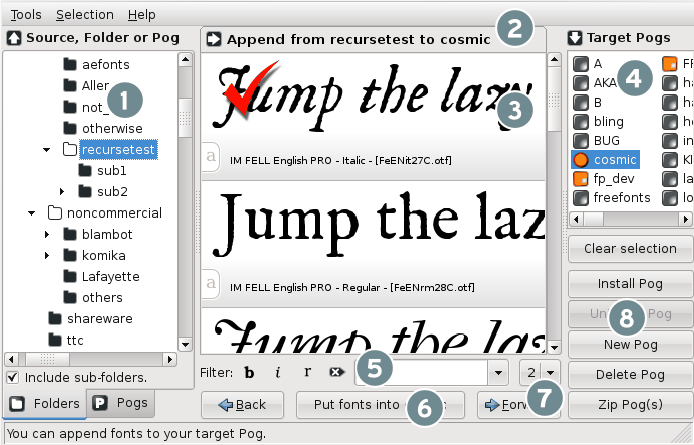
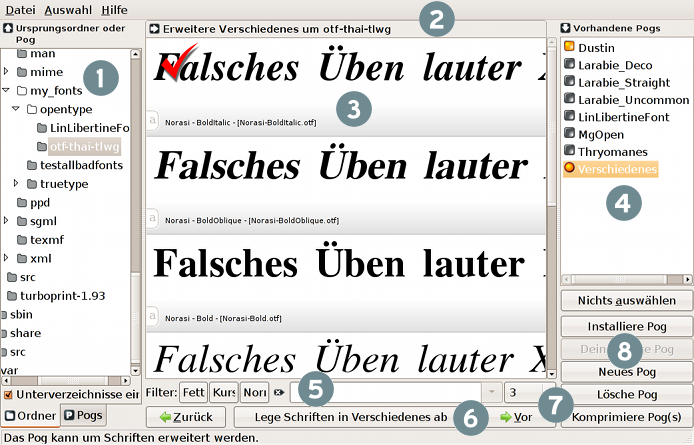
German translation finished!

diff --git a/branches/krautfont/fontypythonmodules/help/de/help.html b/branches/krautfont/fontypythonmodules/help/de/help.html
@@ -22,80 +22,80 @@
 		<a href="#LAYOUT">Das Layout</a> | <a href="#MENUS">Die Menüs</a> | <a href="#SHORTCUTS">Schnellzugriff</a> | <a href="#TIPS">Tipps</a> | <a href="#L10N">Regionale Anpassung</a> | <a href="#BUGS">Fehler</a> | <a href="#LIC">Lizenz</a>
 		</p>
 
-		<h3><font color="#758B94">&Uuml;ber den Grundgedanken</font></h3>
+		<h3><font color="#758B94">Über den Grundgedanken</font></h3>
 		<p>Sie wählen Schriften aus und stellen Sie in <b>"Pogs"</b> zusammen. Sie installieren ein Pog und alle darin versammelten Schriftarten sind für andere Programme verfügbar. Werden sie nicht mehr gebraucht, deinstallieren Sie das Pog wieder.</p>
 		<p>In das Wort "Pog" bin ich selbst hineingestolpert, es leitet sich von der Mitte des Wortes "Typografie" ab. Es bedeutet soviel wie "Sammlung" oder "Gruppe" oder "Bündel" oder "Schachtel" oder "Kasten" oder "Stapel" oder "Haufen" &mdash; Sie wissen was ich meine.</p>
-		<p>Die Schriftdateien werden im Verzeichnisbaum weder verschoben, noch werden Kopien gemacht; bei der Installation werden <i> nur symbolische Verknüpfungen (Links) mit den Originalen </i> im Heimatverzeichnis unter <i>.fonts</i> angelegt.</p>
+		<p>Die Schriftdateien werden im Verzeichnisbaum weder verschoben, noch werden Kopien gemacht; bei der Installation werden <i> nur symbolische Verknüpfungen (Links) mit den Originalen </i> im Heimatverzeichnis unter "<i>.fonts</i>" angelegt.</p>
 		<p>Sie haben z.B. ein Pog "Zoo Logo", in dem Sie alle Schriften abgelegt haben, um ein Logo für einen Zoo zu entwerfen. Anschließend reicht die Installation des Pogs "Zoo Logo". Alle Schriften erscheinen nun in Inkscape, Gimp und anderen Anwendungen. Gehen Sie ganz normal an Ihre Arbeit und machen sich keine Gedanken mehr über die Schriften. Ist die Arbeit getan, deinstallieren Sie "Zoo Logo" und alle Schriften sind wieder aus den Schrift-Auswahldialogen verschwunden. (D.h. die Verknüpfungen/Links mit den originalen Schriftdateien sind aus dem .fonts-Ordner im Heimatverzeichnis entfernt worden, was einer Deinstallation gleichkommt.)</p>
 		<p>Fonty eignet sich auch hervorragend zum Betrachten von Schriften, egal wo sie gespeichert sind und ohne systemweite Installation. Es hat eine Kommandozeilen-Schnittstelle, von der aus Pogs installiert/deinstalliert werden können, ohne die grafische Oberfläche starten zu müssen. Eine nette Besonderheit!</p>
 		<h3><font color="#758B94">Verborgene Schriften im Heimatverzeichnis</font></h3>
-		<p>Im Heimatverzeichnis befindet sich ein verborgener Ordner '.fonts'. Der Punkt kennzeichnet ihn als versteckt. Darin finden sich (eventuell) die unterschiedlichsten Arten von Schriftdateien, die alle vom System genutzt werden können. Allerdings ist es nicht ganz so einfach, weil unter GNU/Linux Schriften auch an anderen Stellen installiert werden können. Aber es ist ein praktischer Ort. Normalerweise braucht man nicht in diesen Ordner zu wechseln, warum sich also weiter Gedanken darum machen.</p>
+		<p>Im Heimatverzeichnis befindet sich ein verborgener Ordner ".fonts". Der Punkt kennzeichnet ihn als versteckt. Darin finden sich (eventuell) die unterschiedlichsten Arten von Schriftdateien, die alle genutzt werden können. Ganz so einfach ist es leider nicht, weil unter GNU/Linux Schriften auch an anderen Stellen systemweit installiert werden. Aber dieser Ordner ist bestens geeignet, eigene Schriften zu installieren. Und da man normalerweise nicht direkt in diesen Ordner wechselt, müssen Sie sich weiter keine Gedanken darum machen.</p>
 		<h3><font color="#758B94">Letzte Neuerungen</font></h3>
 		<ol>	
-			<li>(Sept 2009) Pogs können archiviert werden. Alle Schriften darin werden in einer komprimierten Datei zusammengefasst z.B. um sie weiter zu verteilen.</li>
-			<li>(Juni 2009) Es gibt die Möglichkeit Unterverzeichnisse einzuschließen. Siehe auch die Kommandozeilenoption "-A"</li>
-			<li>(June 2009) Neue Tastenkürzel. Strg+PfeilLinks and Strg+PfeilRechts blättert durch die Seiten.</li>
-			<li>(June 2009) Mehrfachauswahl von Pogs. In einem Schritt können viele Pogs entfernt, installiert oder deinstalliert werden.</li>
+			<li>(September 2009) Pogs können archiviert werden. Alle Schriften darin werden in einer komprimierten Datei zusammengefasst z.B. um sie weiter zu verteilen.</li>
+			<li>(Juni 2009) Es gibt die Möglichkeit Unterverzeichnisse einzuschließen. Siehe auch die Kommandozeilenoption "-A".</li>
+			<li>(Juni 2009) Neue Tastenkürzel. Strg+PfeilLinks and Strg+PfeilRechts blättert durch die Seiten.</li>
+			<li>(Juni 2009) Mehrfachauswahl von Pogs. In einem Schritt können viele Pogs entfernt, installiert oder deinstalliert werden.</li>
 		</ol>
 		
 		<CENTER><IMG src="../common/break.png" border="0"></CENTER>
 
 		<A NAME="LAYOUT"></A>
-		<h3><font color="#758B94">Layout</font></h3>
+		<h3><font color="#758B94">Das Layout</font></h3>
 		<CENTER><IMG src="fp_1to8-nq8.png" border="0">
-		<p><font size=1>Die Benutzeroberfläche ist von links nach rechts aufgebaut. Zunächst wählen Sie ganz links einen Ursprung aus, dann die einzelnen Schriften im mittleren Bereich. Schließlich legen Sie ein 'Pog' als Ziel fest, unter dem die Schriften gespeichert werden.</font></p></CENTER>
+		<p><font size=1>Die Benutzeroberfläche ist von links nach rechts aufgebaut. Zunächst wählen Sie ganz links einen Ursprung aus, dann die einzelnen Schriften im mittleren Bereich. Schließlich legen Sie ein "Pog" als Ziel fest, unter dem die Schriften gespeichert werden.</font></p></CENTER>
 
 
 	<table cellspacing="10">
 	<tr><td valign="top">
 		<IMG src="../common/fp1.png.cr.png" align="left" border="0">
 		</td><td>
-		<h4>Source of fonts.</h4>
-		<p>You can choose a folder <i>or</i> another Pog as the <i>Source</i>, simply choose the appropriate tab.<br>It's quite nice to get fonts out of another Pog sometimes (it's quicker than trying to find them on a drive somewhere), so Pogs can be Sources too &mdash; don't let this confuse you!<br>Keep your eyes on the label at 2 to see what the current selected Source is.</p>
-		<p><strong>Sub-Folders</strong>: Above the Folders is a checkbox to include fonts in sub-folders under your chosen folder. You can deal with many fonts at once in this way &mdash; but beware the trade-off of speed and stability.</p>
+		<h4>Woher kommen die Schriften?</h4>
+		<p>Sie können einen Ordner <i>oder</i> ein anderes Pog als <i>Ursprung</i> verwenden, wählen Sie einfach den entsprechenden Reiter.<br>Manchmal ist es sinnvoll, wenn man Schriften aus einem anderen Pog wählt (es ist viel schneller als ein ganzes Laufwerk zu durchsuchen). Also auch Pogs können Ursprung sein &mdash; lassen Sie sich davon nicht verwirren!<br>Behalten Sie immer die Zeile bei 2 (Statusanzeige) im Auge.</p>
+		<p><strong>Unterverzeichnisse</strong>: Unterhalb der Ordneransicht befindet sich ein Kontrollkästchen "Unterverzeichnisse einschliessen", d.h. alle Schriften in Unterverzeichnissen des gewählten Ordners werden in der Vorschau mit angezeigt. Auf diese Weise können Sie mit sehr vielen Schriften gleichzeitig arbeiten &mdash; Geschwindigkeit und Stabilität leiden aber möglicherweise darunter.</p>
 	</td></tr>
 	<tr><TD valign="top">
 			<IMG src="../common/fp2.png.cr.png" align="left" border="0"></TD><td>
-			<h4>Information area.</h4>
-			<p>This section informs you about what is selected in the Source and Target portions of the interface. Along with the status bar, it keeps you informed about what you can and cannot do at any time.</p>
+			<h4>Statusanzeige</h4>
+			<p>Diese Zeile informiert Sie über die aktuelle Auswahl von Ursprung und Ziel. Zusammen mit der Hilfezeile am unteren Fensterrand gibt sie Auskunft darüber, welche Aktionen möglich oder nicht möglich sind.</p>
 	</td></tr>
 	<tr>
 	<TD valign="top">
 		<IMG src="../common/fp3.png.cr.png" align="left" border="0"></TD><td>
-		<h4>The font view.</h4>
-		<p>The fonts in the folder or Pog you chose on the left will show here.</p>
-		<p><strong>Please note</strong>: An error marker may appear instead of the expected font glyphs. These fonts either cannot be opened (for whatever reason) or Fonty cannot draw them. <i>You can still select</i> these 'bad' fonts, place them into Pogs and then install them. The reason for this is that Fonty Python is not all that good at drawing fonts (it's a long story) but other apps like Inkscape and The Gimp work just fine. So, if you know you need a font and Fonty says it's bad, just ignore the error message and select it like any other font.</p>
-		<p><strong>Tip</strong>: You can change the size of the fonts with <strong>Ctrl + mouse wheel (up/down)</strong>.</p>
-		<h5>This section has various behaviours, depending on what you have selected:</h5>
+		<h4>Die Vorschau</h4>
+		<p>Die Schriften im links markierten Ordner oder Pog werden hier angezeigt.</p>
+		<p><strong>Nota bene</strong>: Statt des erwarteten Textes erscheint möglicherweise eine Fehlermeldung. Diese Schriften können entweder aus irgendwelchen Gründen nicht geöffnet werden oder FontyPython kann sie nicht darstellen. <i>Trotzdem lassen sie sich diese "schlechten" Schriften auswählen, in Pogs speichern und installieren</i>. Der Grund ist, daß FontyPython (leider immer noch nicht) Schriften nicht so zuverlässig darstellen kann wie andere Anwendung, z.B. Inkscape oder The Gimp. Also, auch wenn Fonty behauptet eine Schrift sei "schlecht", ignorieren Sie die Fehlermeldung und behandeln Sie sie wie jede andere Schrift.</p>
+		<p><strong>Tipp</strong>: Die Schriftgröße kann sehr schnell mit der Kombination <strong>Strg + Mausrad (auf/ab)</strong> verändert werden.</p>
+		<h5>Dieser Bereich ermöglicht unterschiedliche Aktionen, je nachdem was ausgewählt ist:</h5>
 		<ol>
 			<li>
-			<h5>You have selected a Source (Pog or Folder) and a Target Pog</h5>
+			<h5>Es ist ein Ursprungsordner oder Pog und ein Ziel ("Vorhandene Pogs") markiert</h5>
 			<IMG src="../common/fp_ticking.png" border="0">
-			<p>This will let you tick fonts and then store them in the Target Pog.</p>
-			<h6>Areas of interest</h6>
+			<p>Schriften können angehakt und im Pog gespeichert werden.</p>
+			<h6>Die Elemente im Einzelnen</h6>
 			<ol>
-				<li><strong>Character Map Button</strong> If you have <em>gucharmap</em> or <em>kfontview</em> installed, this button will show and when clicked will open one of those two apps to let you view the full character-set of the font. You can choose which character map viewer to use in the Settings.<p></p></li>
-				<li><strong>Tick Area</strong> Clicking anywhere on a font will either <em>tick</em> or <em>cross</em> it.<p>A <em>tick</em> means the font can be placed into a <em>Target Pog</em> &mdash; i.e. the one chosen in the right-hand panel.</p><p>A <em>cross</em> means the font will be removed from the <em>Source Pog (The one you are viewing at the moment)</em> &mdash; i.e. the Pog currently chosen on the left-panel.</p><p></p></li>
-				<li><strong>Font Info</strong> Here you will find the family and style and filename. When you use the filter to search, this is the text that is used.</li>
+				<li><strong>Schalter für die Zeichentabelle</strong>: Wenn <em>gucharmap</em> oder <em>kfontview</em> auf Ihrem System installiert ist, wird dieser Schalter angezeigt. Damit können Sie eines der Programme starten, die die vollständige Zeichentabelle der Schrift anzeigen. Welches Programm benutzt werden soll, kann im Dialog Optionen eingestellt werden.<p></p></li>
+				<li><strong>Auswahlbereich</strong>: Ein Klick in diesen Bereich <em>hakt</em> oder <em>kreuzt</em> die Schrift an.<p>Ein <em>Haken</em> bedeutet die Schrift kann in das <em>markierte Pog</em> übernommen werden &mdash; also in das in der rechten Liste ausgewählte.</p><p>Ein <em>Kreuz</em> bedeutet die Schrift wird aus dem <em>gerade angezeigten Pog </em> entfernt &mdash; das Pog also, das in der linken Liste ausgewählt ist.</p><p></p></li>
+				<li><strong>Schriftinformationen</strong>: Hier werden die Familie, der Stil sowie der Dateiname eingeblendet. Diese Angaben werden beim Filtern der Vorschau ausgewertet.</li>
 			</ol>
 			<hr>
 			</li>
 			<li>
-			<h5>You have selected a Source Folder (or a Pog) <em>only</em></h5>
+			<h5>Es ist <em>nur</em> ein Ursprungsordner markiert</h5>
 			<IMG src="../common/fp_normal_item.png" border="0">
-			<p>This will not let you tick anything, you can only look. There is no visual difference.</p>
+			<p>Die Schriften können weder angehakt noch angekreuzt werden. Optisch gibt es keinen Unterschied zum vorher beschriebenen Zustand.</p>
 			<hr>
 			</li>
 			<li>
-			<h5>You have selected a Source Pog <em>only</em></h5>
+			<h5>Es ist <em>nur</em> links ein Pog markiert</h5>
 			<IMG src="../common/fp_removing_a_font.png" border="0">
-			<p>This will let you cross-out fonts that you want to remove from the Pog you are looking at now.</p>
+			<p>Sie kreuzen die Schriften an, die aus dem Pog entfernt werden sollen.</p>
 			<hr>
 			</li>
 			<li>
-			<h5>Inactive fonts</h5>
-			<IMG src="../common/fp_already_in_x.png" border="0">
-			<p>This greyed-out font indicates that it's already in the Target Pog, so you can't select it.</p>
+			<h5>Gesperrte Schriften</h5>
+			<IMG src="fp_already_in_x.png" border="0">
+			<p>Die ausgegraute Anzeige weist auf Schriften hin, die sich bereits im Ziel(-pog) befinden. So wird verhindert, dass Schriften mehrfach in einem Pog gespeichert werden.</p>
 			</li>
 	</ol>
 	</td>
@@ -103,17 +103,17 @@
 	<tr>
 	<TD valign="top">
 	<IMG src="../common/fp4.png.cr.png" align="left" border="0"></TD><td valign="top">
-	<h4>Target Pogs.</h4>
+	<h4>Status der Pogs</h4>
 	<table><tr>
 			<td>
 				<IMG src="fp_pog_icons.cr.png" align=left border="0">
 			</td>
 			<td valign="top">
-				These icons indicate which are currently installed and which are not.
+				Diese Symbole zeigen an, ob ein Pog installiert ist.
 				<ul>
-					<li>You cannot use an installed Pog as a Target.</li>
-					<li>You choose a Target Pog by clicking one (on the right).</li>
-					<li>By holding <i>Ctrl</i> you can select many Pogs at once.</li>
+					<li>Installierte Pogs können nicht verändert werden.</li>
+					<li>Welches Pog erweitert werden soll ("Ziel") bestimmen Sie rechts.</li>
+					<li>Mit <i>Strg + Klick</i> können mehrere Pogs gleichzeitig ausgewählt werden.</li>
 				</ul>
 			</td>
 		</tr>
@@ -121,147 +121,145 @@
 	</td></tr>
 	<tr><TD valign="top">
 			<IMG src="../common/fp5.png.cr.png" align="left" border="0"></TD><td>
-			<h4>The filter.</h4>
-			<p>This is the "filter". You can type partial words here and the list of fonts will change to reflect the search. For example, if you only want the italic fonts, then type <pre>italic</pre> (And press ENTER)<br>When you want all the fonts again, clear the box and press ENTER.</p>
-	<p><strong>Tip</strong>: If you want to search for bold <em>or</em> italic (i.e fonts with either term) then type in <pre>bold | italic</pre><font size=-1>That line (|) is the key near ENTER, above the backslash (\) character on a US-English keyboard. It means "OR" so: "bold OR italic" is what you are saying to the filter.</font></p>
-			<p><strong>NOTE</strong>: There's a bug I can't find &mdash; If you are not seeing any fonts, be sure to clear your filter and press <strong><em>enter</em></strong>; you may have to do it twice.</p> 
+			<h4>Der Filter</h4>
+			<p>In der Vorschau erscheinen nur noch die Schriften, auf deren Angaben (vgl. <strong>Schriftinformationen</strong>) der hier eingegebene Text zutrifft. Wollen Sie z.B. nach Serifen filtern, schreiben Sie <pre>serif</pre> (und betätigen die Eingabetaste!)<br><br>Wollen Sie wieder zur ungefilterten Ansicht zurückkehren, benutzten Sie den Schalter "Filter löschen" bzw. leeren das Eingabefeld.<br>Für die Suche nach Standardstilen benutzen Sie die Wechselschalter "Fett", "Kursiv", "Normal". Ist z.B. der Schalter "Fett" eingedrückt werden nur noch Schriften angezeigt deren vollständiger Name das Wort "bold" (die englische Bezeichnung für fette Schriften) enthält. "Fett" und "Kursiv" lassen sich kombinieren, "Normal" kann nur allein aktiviert werden. Eine fette, normale Schrift wäre ziemlich unlogisch!</p>
+	<p><strong>Tipp</strong>: Sicher ist Ihnen die Linie (|) in <pre>regular|normal</pre><br><br>aufgefallen, wenn Sie den Schalter "Normal" betätigen. Das Eingabefeld erlaubt reguläre Ausdrücke für, alle die etwas davon verstehen.<font size=-1> "|" bedeutet "ODER", es werden also nur Schriften ausgefiltert, auf die die Beschreibung "normal" ODER "regular" zutrifft.</font></p>
+			<p><strong>ANMERKUNG</strong>: Es gibt einen Fehler, den ich noch nicht beheben konnte &mdash; wenn Sie keine Schriften sehen können, stellen Sie sicher, dass das Eingabefeld "Filter" leer ist und drücken, eventuell auch zweimal, die  <strong><em>Eingabetaste</em></strong>.</p> 
 	</td></tr>
 	<tr>
 		<TD valign="top">
 		<IMG src="../common/fp6.png.cr.png" align="left" border="0"></TD><td>
-		<h4>The action button.</h4>
-		<p>This is the main <i>action</i> button. It will change its functionality as you select various combinations. The text of the button ought to give a clear indication of what it will do. Read it in conjunction with the Info area and the status bar.</p>
+		<h4>Der Hauptschalter</h4>
+		<p>Dies ist der wichtigste Schalter. Er löst je nach der aktuellen Situation verschiedene <i>Aktionen</i> aus. Die Beschriftung des Schalters sollte einen klaren Hinweis darauf geben, was geschieht. Beachten Sie auch die <strong>Statusanzeige</strong> und die <strong>Hilfezeile</strong>.</p>
 	</td></tr>
 	<tr>
 		<TD valign="top"><IMG src="../common/fp7.png.cr.png" align="left" border="0"></TD><td>
-			<h4>Navigation.</h4>
-			<p>These controls allow you to navigate between "pages" of fonts. You can also choose any page from the pull-down. Please go to Tools->Settings (or hit Ctrl+S &mdash; for English locales) where you can change the number of fonts in a page. <i>I use the paged approach to reduce the memory demands of the app.</i></p>
+			<h4>Navigation</h4>
+			<p>Hier können Sie sich durch die "Seiten" bewegen. Benutzen Sie die "Vor"/"Zurück"-Schalter oder gehen direkt zu einer Seite über die Aufklappliste. Im Einstellungsdialog (Datei->Optionen oder Strg+O &mdash; für die deutsche Version) kann die Seitenlänge, d.h. die Schriften pro Seite, festgelegt werden. <i>Dieser Ansatz soll den Speicherbedarf von FontyPython möglichst gering halten.</i></p>
 	</td></tr>
 	<tr>
 		<TD valign="top"><IMG src="../common/fp8.png.cr.png" align="left" border="0"></td><td>
-	<h4>Pog actions.</h4>
-	<p>The buttons in this section all act upon the currently selected <strong>Target</strong> Pog(s). You can variously delete, install, uninstall and zip the selected Pog(s). You can also create new Pogs from here.</p><p>The "Clear Selection" button will clear all the Pogs you have selected.</p>
+	<h4>Abteilung Pogs</h4>
+	<p>Diese Schalter verändern die <strong>Ziel</strong>-Pogs ("Vorhandene Pogs"). Alle markierten Pogs können gelöscht, installiert, deinstalliert oder komprimiert werden. Oder Sie erstellen ein neues Pog.</p><p>Mit "Nichts auswählen" entfernen Sie alle Markierungen.</p>
 	</td></tr>
 	</table>
-	<p><A href="#TOP"><font size=-1>Go to top</font></A></p>
+	<p><A href="#TOP"><font size=-1>Nach oben</font></A></p>
 
 	<CENTER><IMG src="../common/break.png" border="0"></CENTER>
 
 	<A NAME="MENUS"></A>
-	<h3><font color="#758B94">Menu items</font></h3>
+	<h3><font color="#758B94">Die Menüs</font></h3>
 	<ol>
-		<li><strong>Tools menu</strong>
+		<li><strong>Das Datei-Menü</strong>
 		<ol>
-			<li>Settings: Access the settings for the font view. Shortcuts: Ctrl+S or middle-click on the font view.</li>
-			<li>Check Fonts: Choose a folder and scan for bad fonts which are then noted to prevent crashing Fonty in the future. Use this if your head is tired of the wall/desktop.</li>
-			<li>Purge Pog: The Pog you are currently looking at may have yellow items which indicate fonts that are not there anymore. Use purge to remove them. <font size=-1>A Pog contains a list of fonts paths. If a font is moved on the disk, say it's renamed or deleted, then the path in the Pog will point to a font that is not there anymore.</font></li>
-			<li>Exit: Guess :)</li>
-		</ol>
-		<li><strong>Selection menu</strong>
+			<li>Optionen: Einstellungen für die Vorschau. Schnellzugriff: Strg+O oder Mittelklick auf die Vorschau.</li>
+			<li>Überprüfe Schriften: Bestimmen Sie einen Ordner, der auf Schriften überprüft werden soll, die FontyPython immer wieder zum Absturz bringen. Der Rettungsring für genervte Nutzer.</li>
+			<li>Bereinige Pog: Vielleicht sehen Sie in einem Pog gelb hervorgehobene Einträge. Ein Pog ist eigentlich nur eine Liste mit Dateipfaden zu den Schriften. Wurde eine Schrift umbenannt, verschoben oder gelöscht, führt der Eintrag ins Leere. Hier können Sie alle verwaisten Einträge aus einem Pog entfernen.</li>
+			<li>Beenden: Raten Sie mal :)</li>
+		</ol><br>
+		<li><strong>Das Auswahl-Menü</strong>
 		<ol>
-			<li>Select ALL the source fonts: While only a few fonts are shown in a page at a time, there may be thousands in the selected source. This will select all those fonts in one go.</li>
-			<li>Clear ENTIRE selection: Will clear any selection.</li>
+			<li>ALLE Schriften im Ordner/Pog auswählen: Auch wenn nur wenige Schriften auf einer Seite angezeigt werden, befinden sich vielleicht viel mehr in dem Ordner/Pog. Diese werden alle in einem Durchgang angehakt bzw. angekreuzt.</li>
+			<li>GESAMTE Auswahl aufheben: Alle Markierungen werden wieder entfernt.</li>
 		</ol>
 	</ol>
 
-	<p><A href="#TOP"><font size=-1>Go to top</font></A></p>
+	<p><A href="#TOP"><font size=-1>Nach oben</font></A></p>
 
 	<CENTER><IMG src="../common/break.png" border="0"></CENTER>
 	
 
 	<A NAME="SHORTCUTS"></A>
-	<h3><font color="#758B94">Shortcut keys</font></h3>
+	<h3><font color="#758B94">Schnellzugriff</font></h3>
 	<ol>
-		<li><strong>If shortcut keys don't work</strong>, click in the filter text box. This seems to kick them back to life. Don't ask me what's going on....</li>
-		<li><strong>Esc key</strong> will close your app (and help etc.) quickly.</li>
-		<li><strong>Ctrl+LeftArrow and Ctrl+RightArrow</strong> will step through fonts like the Next and Previous buttons do.</li>
-		<li><strong>Middle-click (the wheel-button)</strong> in the font view (position 3 above) will open the Settings screen (like Ctrl+S does)</li>
-		<li><strong>Ctrl + Mouse wheel up/down</strong> will increase/decrease the size of your font previews quickly.</li>
+		<li><strong>Wenn die Schnellzugriffstasten nicht funktionieren</strong>, setzen Sie den Eingabefocus in das Filtertextfeld. Fragen Sie mich nicht warum....</li>
+		<li><strong>Escape</strong> schliesst Anwendung, Dialoge oder Hilfe.</li>
+		<li><strong>Strg+PfeilLinks und Strg+PfeilRechts</strong> haben die gleiche Wirkung wie die "Vor"/"Zurück"-Schalter.</li>
+		<li><strong>Mittelklick (Mausrad)</strong> in der Vorschau (vgl. Punkt 3 Die Vorschau) öffnet den Einstellungsdialog.</li>
+		<li><strong>Strg + Mausrad</strong> vergrößert/verkleinert die Schriftgröße direkt.</li>
 	</ol>
 	
-	<p><A href="#TOP"><font size=-1>Go to top</font></A></p>
+	<p><A href="#TOP"><font size=-1>Nach oben</font></A></p>
 
 	<CENTER><IMG src="../common/break.png" border="0"></CENTER>
 
 	<A NAME="TIPS"></A>
-	<h3><font color="#758B94">Handy tips</font></h3>
+	<h3><font color="#758B94">Tipps</font></h3>
 	<ol>
-		<li>Try to use Fonty from the command-line (from a console). It's easy, simply type: <pre>fontypython --help</pre></li>
-		<li>Pog files are merely text files. They are very, very simple and this was intentional. Here are some things you can do with them:
+		<li>FontyPython hat auch eine Kommandozeilen-Schnittstelle. Probieren Sie in einem Terminal: <pre>fontypython --help</pre></li>
+		<li>Pog-Dateien sind lediglich Textdateien. Sie sind absichtlich sehr einfach gehalten. Hier ein paar Sachen, die Sie damit anstellen können:
 		<ul>
-			<li>Open and edit them in any text editor.</li>
-			<li>Append fonts to the end of them, just include the entire path and the font name.<strong>Note for Type1 fonts:</strong>Only include the PFA/B file types, not the various metric files that follow them.</li>
-			<li>If your paths change (say you renamed your folders, or re-installed your O/S) then you can use search/replace to update all the paths to all the fonts in your Pogs. You could do this from the command-line using GNU tools, but any text editor will help you here too.</li>
-			<li>You can backup your Pogs by simply copying them to another folder.</li>
-			<li>One last trick, for those proficient with the Gnu tools, you can do things like this:<pre>find /home/you/somepath/TTFS/F -iname "Fu*" >> Futura.Pog</pre></li>
+			<li>Sie lassen sich mit jedem Texteditor bearbeiten.</li>
+			<li>Pogs lassen sich erweitern, indem Sie einfach den vollständigen Pfad zur Schriftdatei in die Textdatei einfügen.<br><strong>Hinweis für Type1-Schriften</strong>: Bitte nur die PFA/PFB-Dateien eintragen, mit den Dateiendungen .pfa bzw. .pfb.</li>
+			<li>Falls sich die Pfade verändert haben (z.B. weil Sie Ihr Betriebssystem neu installiert haben), können Sie die Pfade automatisch mit GNU-Werkzeugen (find, locate, sed,...) oder von Hand anpassen.</li>
+			<li>Legen Sie Sicherungskopien Ihrer Pogs an: cp ~/.fontypython/*.pog ~/backup/ .</li>
+			<li>Ein letzter Trick für alle GNU-Gurus, auch so etwas ist möglich:<pre>find /home/name/einpfad/TTFS/F -iname "Fu*" >> Futura.pog</pre></li>
 		</ul>
 	</li>
 	</ol>
 	
-	<p><A href="#TOP"><font size=-1>Go to top</font></A></p>
+	<p><A href="#TOP"><font size=-1>Nach oben</font></A></p>
 
 	<CENTER><IMG src="../common/break.png" border="0"></CENTER>
 
 	<A NAME="L10N"></A>
-	<h3><font color="#758B94">Localization tips</font></h3>
+	<h3><font color="#758B94">Regionale Anpassung</font></h3>
 	<ol>
-		<li>If localization is not working it could be that there is no translation for your language yet, it can also be a problem with missing packages in your distro.<br>
-		This is what I installed on my system (Kubuntu 7.10 as of December 2007) while I was developing:<br>
+		<li>Wenn FontyPython nicht in Ihrer Sprache erscheint, liegt es wahrscheinlich daran, dass noch keine Übersetzung vorliegt (gegenwärtig sind Englisch, Französisch, Italienisch und Deutsch verfügbar). Oder es fehlen bestimmte Sprachpakete Ihrer Distribution.<br>
+		Suchen Sie mit Ihrem Packetmanager nach Namen wie:<br>
 		<ul>
 		<li>language-support-fr</li>
 		<li>language-support-en</li>
-		<li>language-pack-gnome-fr <strong>This one is very important, it has many stock translations for GTK.</strong></li>
+		<li>language-pack-gnome-fr <strong><br>Dies ist besonders wichtig, damit die Standardelemente in GTK übersetzt werden.</strong></li>
 		</ul>
-		(Replace the last two letters with your own language code.)</li>
+		(Die beiden letzten Buchstaben werden durch Ihren Ländercode ersetzt.)</li>
 
-		<li><strong>ENCODING TIP:</strong><br/>Check your LANG variable. Open a console and type: <pre>echo $LANG</pre><br/>
-	If it reports "C" or "POSIX" or it's blank then you will be running under ANSI (ASCII) encoding only. This means that unusually named fonts and Pogs will likely be invisible to you, function badly, or cause errors. I am putting out fires as fast as I can, but these bugs are hard to find.<br/>
-	To see what other encodings you could be using, type:<pre>locale -a</pre><br/>
-	You should see a list of locales. If you see one ending in utf8 that looks like it fits your language, then change your system to use it. You should do this via your system-settings gui, but you can do it temporarily like this:
-	<pre>LANG=xx_YY.encoding</pre> Where xx_YY and encoding are replaced by you. After that, start Fonty again.
+		<li><strong>ENKODIERUNGS HINWEISE:</strong><br/>Überprüfen Sie die Variable LANG . Öffnen Sie ein Terminal und schreiben: <pre>echo $LANG</pre><br/>
+	Ist die Ausgabe "C" oder "POSIX" oder ist leer, ist nur die  ANSI/ASCII-Kodierung verfügbar. Deshalb können Schriften und Pogs mit Buchstaben im Namen, die nicht zu den 128 Zeichen des ANSI/ASCII-Satzes gehören, eventuell nicht angezeigt werden oder Fehlfunktionen verursachen. Dieser Art Fehler sind schwer zu finden, aber ich tue mein Bestes.<br/>
+	<br><br>Um zu sehen, welche Enkodierungen Ihr System sonst noch bietet, geben Sie folgenden Befehl ein:<pre>locale -a</pre><br/>
+	Sie sollten eine mehr oder weniger lange Liste sehen. Falls ein Eintrag dabei ist, der mit "utf8" endet, haben Sie gute Chancen. Passen Sie die Umgebungsvariablen mit den entsprechenden Werkzeugen an oder setzen sie probeweise mit (für Deutsch):
+	<pre>export LANG=de_DE.utf8</pre> Danach starten Sie Fonty erneut vom selben Terminal aus.
 		</li>
-		<li>If you want to help translate, please contact us via the fontypython list: fontypython@googlegroups.com</li>
+		<li>Wenn Sie bei der Übersetzung helfen wollen, nehmen Sie Kontakt mit der Mailingliste auf: fontypython@googlegroups.com</li>
 	</ol>
 
-	<p><A href="#TOP"><font size=-1>Go to top</font></A></p>
+	<p><A href="#TOP"><font size=-1>Nach oben</font></A></p>
 
 	<CENTER><IMG src="../common/break.png" border="0"></CENTER>
 
 	<A NAME="BUGS"></A>
-	<h3><font color="#758B94">Fonty bugs</font></h3>
+	<h3><font color="#758B94">Fontys Fehler</font></h3>
 	<ol>
-	   <li><strong>Fatal crashes and Dangerous Fonts:</strong> Some fonts stick in Fonty's throat and crash her. If you wait a moment, a window should appear and tell you which font is to blame. You should <em>move</em> that font <em>entirely</em> away from where it is. Start Fonty again to resume. If you are stuck, go into your .fontypython folder and open the file named 'lastFontBeforeSegfault', that will be the culprit!</li>
-	   <li><strong>Check Fonts:</strong> I've added a new tool to the Tools menu that will let you choose a folder (and it will go through all the sub-folders too) of fonts for checking. Any fonts that are likely to kill Fonty will be recorded in your ~/.fontypython folder in a file named 'segfonts'. After you do this, you can visit those folders in Fonty and it will display those fonts in yellow. <strong>If you find that Fonty is crashing too often</strong>, then use this tool!<br><font size=-1>There is also a command line to the same tool (fontypython -c /some/folder). Please check the command-line help.</font></li>
-	   <li>If you get errors post a report on <strong><a href="https://savannah.nongnu.org/bugs/?group=fontypython">https://savannah.nongnu.org/bugs/?group=fontypython</a></strong>. Please run Fonty from the command line so that you can copy the error displayed (if any).</li>
-	   <li>When Fonty starts-up it checks your Pog files (in your home folder under .fontypython). If there are any Pogs that cannot be read for whatever reason, then they are renamed to .badpog. You should go in there and do some sleuthing.</li>
-	   <li>As Fonty reads font files here and there, it keeps a list of the fonts it could not open. It's in the .fontypython folder. Open "badfiles" in a text editor if you want to see them.</li>
+	   <li><strong>Fatale Abstürze und gefährliche Schriften:</strong> Manche Schriften bleiben FontyPython im Hals stecken und bringen es zum Absturz. Kurz darauf sollte ein Fenster erscheinen, das die Schuldige nennt. Sie sollten diese Schrift in einen anderen Ordner <em>verschieben</em>. Starten Sie Fonty nocheinmal. Bleiben Sie wieder hängen, öffnen Sie aus dem Ordner ".fontypython" in Ihrem Heimatverzeichnis die Datei "lastFontBeforeSegfault". Hier finden Sie den Pfad zur letzten Schrift, die vor dem Absturz geöffnet wurde!</li>
+	   <li><strong>Überprüfe Schriften:</strong> FontyPython bietet auch die Möglichkeit, ganze Ordner (mit Unterordner) nach möglicherweise beschädigten Schriften zu durchsuchen (vgl. <strong>Das Datei-Menü</strong>). Alle als bedenklich eingestuften Schriften werden in der Datei "~/.fontypython/segfonts" notiert. Anschließend überspringt FontyPython diese Schriften und stellt sie nur noch symbolisch mit gelben Hintergrund dar. <strong>Finden Sie FontyPython läuft zu unstabil, machen Sie diesen Test!</strong><br>Der Test kann auch von der Kommandozeile gestartet werden: fontypython -c /ein/pfad.</li>
+	   <li>Fehler melden Sie bitte an <strong><a href="https://savannah.nongnu.org/bugs/?group=fontypython">https://savannah.nongnu.org/bugs/?group=fontypython</a></strong>. Hilfreich ist, wenn Sie FontyPython von einem Terminal aus starten. So sehen Sie alle Fehlermeldungen.</li>
+	   <li>Beim Start sucht FontyPython nach Pog-Dateien (".fontypython/xxx.pog"). Kann aus irgendeinem Grund eine Datei nicht gelesen werden, wird sie in "xxx.badpog" umbenannt. Möchte Sie den Grund wissen, spielen Sie Detektiv.</li>
+	   <li>In der Datei "~/.fontypython/badfiles" merkt sich FontyPython alle Schriften, die nicht geöffnet werden konnten. Sie lässt sich mit jedem Texteditor betrachten.</li>
 	</ul>
 	</li>
 	</ol>
 
-	<p><A href="#TOP"><font size=-1>Go to top</font></A></p>
+	<p><A href="#TOP"><font size=-1>Nach oben</font></A></p>
 
 	<CENTER><IMG src="../common/break.png" border="0"></CENTER>
 
 	<A NAME="LIC"></A>
-	<h3><font color="#758B94">Licence</font></h3>
-	<p>Fonty Python is Copyright (C) 2006, 2007, 2008, 2009 Donn.C.Ingle.</p>
-	<p>This file is part of Fonty Python.<br>
-	Fonty Python is free software: you can redistribute it and/or modify<br>
-	it under the terms of the GNU General Public License as published by<br>
-	the Free Software Foundation, either version 3 of the License, or<br>
-	(at your option) any later version.<br>
+	<h3><font color="#758B94">Lizenz</font></h3>
+	<p>Fonty Python steht unter Copyright (C) 2006, 2007, 2008, 2009 Donn.C.Ingle.</p>
+	<p>Diese Datei ist Teil von Fonty Python.<br>
+	Fonty Python ist Freie Software: Sie können sie weiterverbreiten und/oder verändern<br>
+	nach den Bestimmungen der GNU General Public License wie sie von der Free Software Foundation<br>
+	veröffentlicht wird. Entweder in der Version 3, oder jeder späteren Version.<br>
+	Fonty Python wird in der Hoffnung herausgegeben nützlich zu sein,<br>
+	aber OHNE JEGLICHE GARANTIE; auch ohne die stillschweigende Garantie<br>
+	der HANDELSFÄHIGKEIT oder der ANWENDBARKEIT FÜR EINEN BESTIMMTEN ZWECK.<br>
+	Näheres erfahren Sie in der GNU General Public License.<br>
 	<br>
-	Fonty Python is distributed in the hope that it will be useful,<br>
-	but WITHOUT ANY WARRANTY; without even the implied warranty of<br>
-	MERCHANTABIliTY or FITNESS FOR A PARTICULAR PURPOSE.  See the<br>
-	GNU General Public License for more details.<br>
-	<br>
-	You should have received a copy of the GNU General Public License<br>
-	along with Fonty Python.  If not, see http://www.gnu.org/licenses/
+	Mit FontyPython sollten Sie eine Kopie der GNU General Public License<br>
+	erhalten haben.  Falls nicht, schlagen Sie unter http://www.gnu.org/licenses/ nach.
 	</p>
 	
-	<p><A href="#TOP"><font size=-1>Go to top</font></A></p>
+	<p><A href="#TOP"><font size=-1>Nach oben</font></A></p>
 
 
 	</TD></TR></table>

diff --git a/branches/krautfont/fontypythonmodules/gui_ScrolledFontView.py b/branches/krautfont/fontypythonmodules/gui_ScrolledFontView.py
@@ -51,7 +51,7 @@ class ScrolledFontView(wx.lib.scrolledpanel.ScrolledPanel) :
 		self.firstrun =True 
 
 		## Michael: Perhaps scroll x and y? If we have a long sample text, the last words couldn't be seen.
-		self.SetupScrolling(rate_y=5)#, scroll_x=False)
+		self.SetupScrolling(rate_y=5, scroll_x=False)
 		
 		ps.sub( reset_top_left_adjustments, self.ResetTopLeftAdjustFlag ) ##DND: class ScrolledFontView 
 
